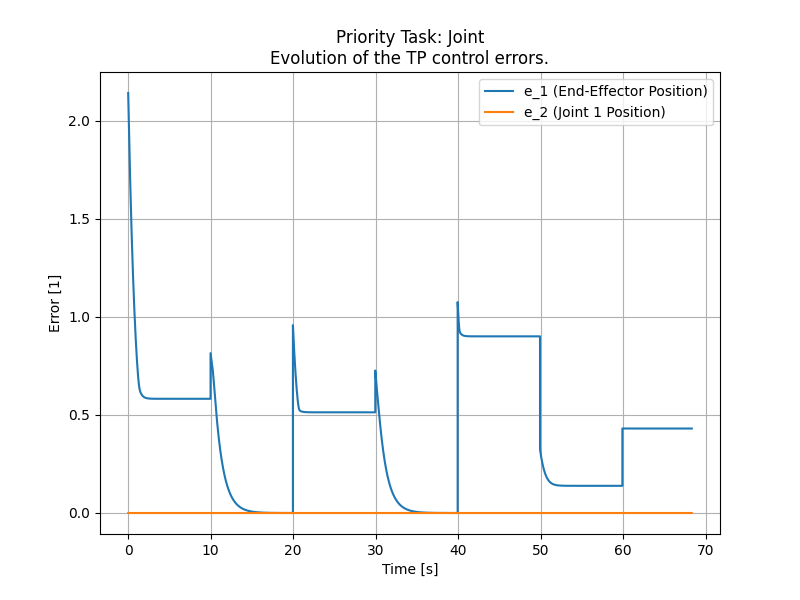
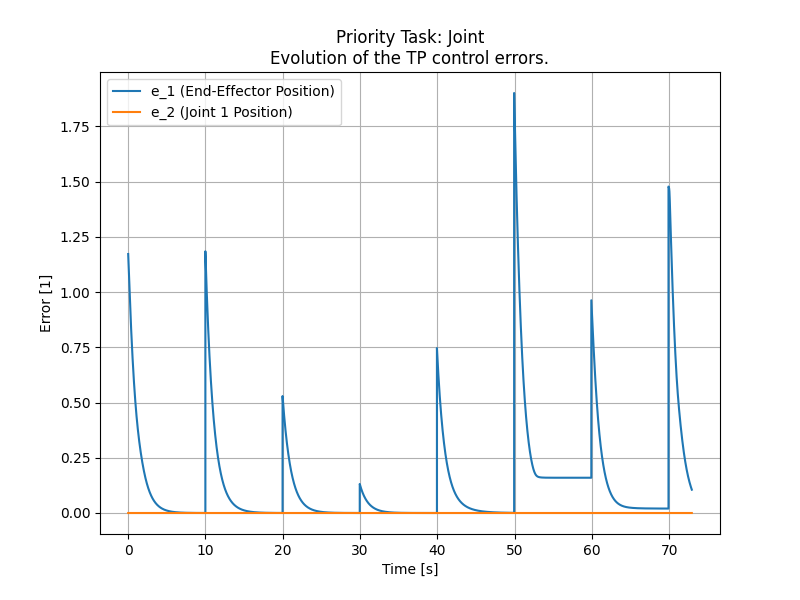
updated

diff --git a/lab2/e2.py b/lab2/e2.py
@@ -13,7 +13,7 @@ revolute = np.array([True,True,True])      # flags specifying the type of joints
 K1 = np.diag([1, 1])                   # Gain for the first task
 K2 = np.diag([1])                      # Gain for the second task
 
-task_flag = 1 # Flag for choosing the case (1 for case 1: end-effector position control, and 2 for case 2: joint position control)
+task_flag = 2 # Flag for choosing the case (1 for case 1: end-effector position control, and 2 for case 2: joint position control)
 
 sigma1_d = np.array([-0.6,0.0]).reshape(2,1) # Position of the end-effector
 sigma2_d = np.array([[0.0]]) # Position of joint 1
@@ -26,7 +26,7 @@ tt = np.arange(0, Tt, dt) # Simulation time vector
 # Drawing preparation
 fig = plt.figure()
 ax = fig.add_subplot(111, autoscale_on=False, xlim=(-2, 2), ylim=(-2,2))
-ax.set_title('Simulation')
+ax.set_title('Simulation of {} Priority Task'.format("EE" if task_flag == 1 else "Joint"))
 ax.set_aspect('equal')
 ax.set_xlabel('x[m]')
 ax.set_ylabel('y[m]')
